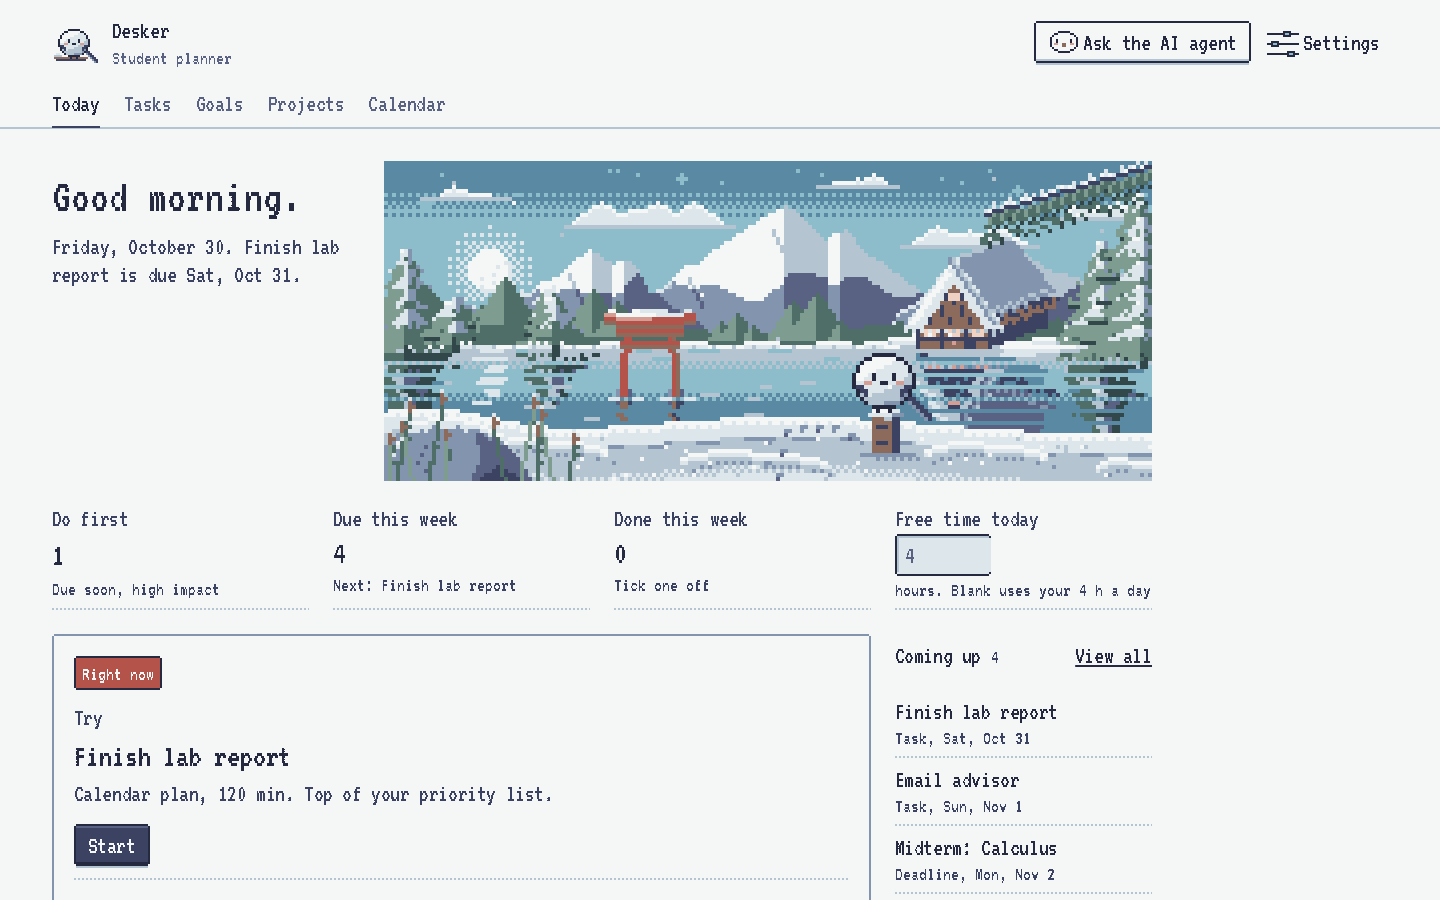
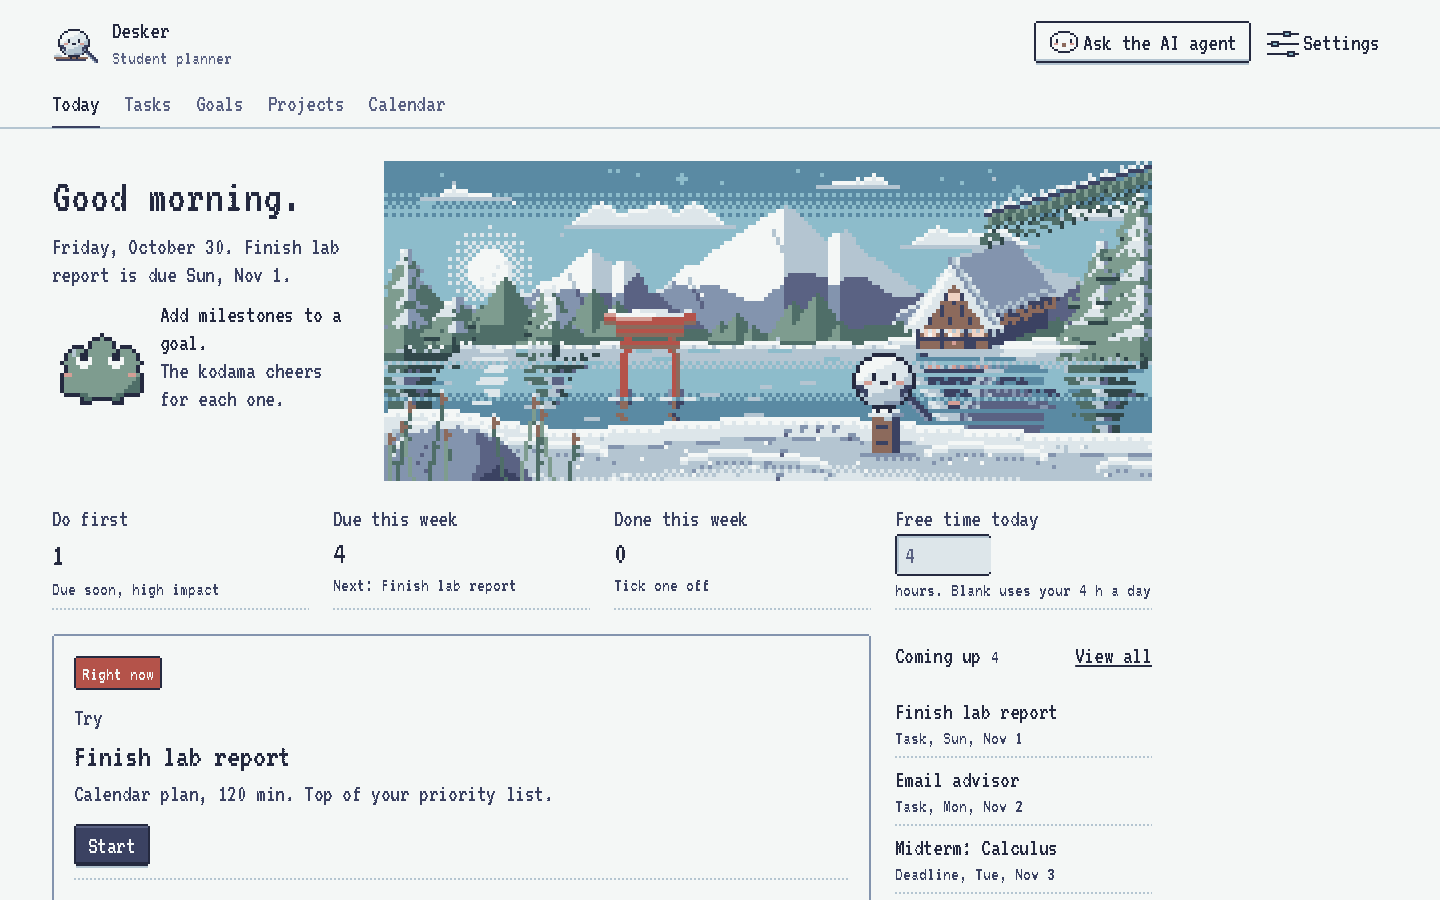
Goal milestones and the kodama: happy when one is reached today, a lucky day after

Changed region(s): [[0.0312, 0.3733, 0.2188, 0.4667], [0.125, 0.3422, 0.2188, 0.3733]]

diff --git a/src/screens/Goals.jsx b/src/screens/Goals.jsx
@@ -2,6 +2,8 @@ import { useState } from 'react'
 import { BLUE, btn, ghost, input, panel, LEVELS } from '../ui.js'
 import Review from '../Review.jsx'
 import { areaTag } from '../guide/questions.js'
+import KodamaCard from '../components/KodamaCard.jsx'
+import { msOf, progress, addMilestone, removeMilestone, toggleMilestone } from '../milestones.js'
 
 function Hobbies({ hobbies, setHobbies }) {
   const [v, setV] = useState('')
@@ -59,20 +61,24 @@ function GuideEntry({ goals, guide, onGuide, setSkipped }) {
   )
 }
 
-export default function Goals({ goals, setGoals, hobbies, setHobbies, tasks, onReview, guide, onGuide, fresh, onMakeTasks, onDismissOffer }) {
+export default function Goals({ goals, setGoals, onMilestone, hobbies, setHobbies, tasks, onReview, guide, onGuide, fresh, onMakeTasks, onDismissOffer }) {
   const [area, setArea] = useState('')
   const areas = [...new Set(goals.map((g) => g.area).filter(Boolean))]
   const shown = area && areas.includes(area) ? goals.filter((g) => g.area === area) : goals
   const blank = { title: '', level: 3, happiness: false }
   const [d, setD] = useState(blank)
+  const [drafts, setDrafts] = useState({}) // new milestone text per goal id
+  const tick = (g, m) => { setGoals(toggleMilestone(goals, g.id, m.id)); if (!m.at) onMilestone?.(g.id, m) }
+  const addMs = (e, g) => { e.preventDefault(); setGoals(addMilestone(goals, g.id, drafts[g.id] || '')); setDrafts({ ...drafts, [g.id]: '' }) }
   const submit = (e) => {
     e.preventDefault()
     if (!d.title.trim()) return
-    setGoals(d.id ? goals.map((g) => (g.id === d.id ? d : g)) : [...goals, { ...d, id: Date.now() }])
+    setGoals(d.id ? goals.map((g) => (g.id === d.id ? { ...d, milestones: g.milestones } : g)) : [...goals, { ...d, id: Date.now() }])
     setD(blank)
   }
   return (
     <>
+      <KodamaCard goals={goals} className="mb-4" />
       <GuideEntry goals={goals} guide={guide} onGuide={onGuide} setSkipped={() => onGuide('skip')} />
       {fresh?.offer && (
         <div role="status" className="mb-4 flex flex-wrap items-center gap-3 bg-pale p-4 text-base">
@@ -108,12 +114,30 @@ export default function Goals({ goals, setGoals, hobbies, setHobbies, tasks, onR
             <ul className="mt-3 space-y-2">
               {!shown.some((g) => g.level === i) && <li className="text-center text-base text-slate-800">No goals yet</li>}
               {shown.filter((g) => g.level === i).map((g) => (
-                <li key={g.id} className={`flex items-center justify-between gap-2 bg-yuki-0 px-4 py-2 ${fresh?.ids.includes(g.id) ? 'ring-2 ring-accent' : ''}`}>
+                <li key={g.id} className={`bg-yuki-0 px-4 py-2 ${fresh?.ids.includes(g.id) ? 'ring-2 ring-accent' : ''}`}>
+                  <div className="flex items-center justify-between gap-2">
                   <span className="min-w-0 break-words">{g.top && <span aria-label="Top 3 goal" className="mr-2 bg-beni px-1 text-xs text-yuki-0">Top 3</span>}{g.title}{g.area && <span className={`ml-2 px-2 text-xs ${areaTag(g.area)}`}>{g.area}</span>}{g.happiness && <span className="ml-2 bg-pale px-2 text-xs">happiness</span>}</span>
                   <span className="flex shrink-0 gap-1">
                     <button className={`${btn} hover:bg-slate-100`} onClick={() => setD(g)}>Edit</button>
                     <button className={`${btn} text-danger hover:bg-slate-100`} onClick={() => setGoals(goals.filter((x) => x.id !== g.id))}>Delete</button>
                   </span>
+                  </div>
+                  <div className="mt-2">
+                    <p className="flex flex-wrap items-center gap-2 text-base text-slate-700">Milestones <span className="flex gap-1" aria-hidden="true">{msOf(g).map((m) => <span key={m.id} className={`px-pip ${m.at ? 'px-pip-on' : ''}`} />)}</span>{msOf(g).length > 0 && `${progress(g).done} of ${progress(g).total}`}</p>
+                    <ul className="mt-1 space-y-1">
+                      {msOf(g).map((m) => (
+                        <li key={m.id} className="flex items-center gap-2">
+                          <input type="checkbox" checked={!!m.at} onChange={() => tick(g, m)} aria-label={`Reached: ${m.title}`} />
+                          <span className={`min-w-0 flex-1 break-words ${m.at ? 'text-slate-700 line-through' : ''}`}>{m.title}</span>
+                          <button className="flex h-8 w-8 shrink-0 items-center justify-center text-slate-700 hover:bg-yuki-1" aria-label={`Remove milestone ${m.title}`} onClick={() => setGoals(removeMilestone(goals, g.id, m.id))}>×</button>
+                        </li>
+                      ))}
+                    </ul>
+                    <form className="mt-1 flex gap-2" onSubmit={(e) => addMs(e, g)}>
+                      <input className={`${input} min-w-0 flex-1`} placeholder="Add a milestone" aria-label={`New milestone for ${g.title}`} value={drafts[g.id] || ''} onChange={(e) => setDrafts({ ...drafts, [g.id]: e.target.value })} />
+                      <button className={`${btn} ${ghost}`}>Add</button>
+                    </form>
+                  </div>
                 </li>
               ))}
             </ul>

diff --git a/src/App.jsx b/src/App.jsx
@@ -21,6 +21,7 @@ import { addTasks } from './tasks.js'
 import { BLUE, btn, ghost } from './ui.js'
 import { Banner } from './art.jsx'
 import { Avatar, Hanko } from './px.jsx'
+import { toggleMilestone } from './milestones.js'
 
 // One URL per section. The old /do-now lives on Today now.
 const PATHS = { Today: '/today', Tasks: '/tasks', Goals: '/goals', Projects: '/projects', Calendar: '/calendar' }
@@ -91,6 +92,8 @@ export default function App() {
   const setPick = (pick) => setData((d) => ({ ...d, pick }))
   const setHobbies = (hobbies) => setData((d) => ({ ...d, hobbies }))
   const setGoals = (goals) => setData((d) => ({ ...d, goals }))
+  const milestoneReached = (goalId, m) => setToast({ stamp: true, text: `Milestone reached: ${m.title}. The kodama is happy, tomorrow is a lucky day.`,
+    undo: () => { setData((d) => ({ ...d, goals: toggleMilestone(d.goals, goalId, m.id) })); setToast(null) } })
   // mode: 'resume' keeps the draft, 'fresh' wipes it; otherwise start (or retake with earlier answers kept)
   const openGuide = (mode) => {
     if (mode === 'skip') return setData((d) => ({ ...d, guide: { ...d.guide, skipped: true } }))
@@ -173,7 +176,7 @@ export default function App() {
             {tab === 'Today' && <Today data={data} setData={setData} tasks={tasks} goals={goals} deadlines={deadlines} focus={focus} pick={pick} setFocus={setFocus} setPick={setPick} setTasks={setTasks}
               goTab={setTab} openTimer={() => setFocusOpen(true)} deleteTask={deleteTask} openAgent={() => setAgentOpen(true)} onReplan={openReplan} onReview={openReview} />}
             {tab === 'Tasks' && <Tasks goals={goals} tasks={tasks} setTasks={setTasks} goTab={setTab} setFocus={setFocus} deleteTask={deleteTask} projects={projects} deadlines={deadlines} setDeadlines={setDeadlines} />}
-            {tab === 'Goals' && <Goals goals={goals} setGoals={setGoals} hobbies={hobbies} setHobbies={setHobbies} tasks={tasks} onReview={openReview} guide={data.guide} onGuide={openGuide} fresh={fresh} onMakeTasks={makeTasks} onDismissOffer={() => setFresh(null)} />}
+            {tab === 'Goals' && <Goals goals={goals} setGoals={setGoals} onMilestone={milestoneReached} hobbies={hobbies} setHobbies={setHobbies} tasks={tasks} onReview={openReview} guide={data.guide} onGuide={openGuide} fresh={fresh} onMakeTasks={makeTasks} onDismissOffer={() => setFresh(null)} />}
             {tab === 'Projects' && <Projects goals={goals} projects={projects} setProjects={setProjects} tasks={tasks} setTasks={setTasks} deadlines={deadlines} />}
             {tab === 'Calendar' && <Calendar goals={goals} tasks={tasks} setTasks={setTasks} freeHours={data.freeHours} freeToday={freeTodayOf(data)} deadlines={deadlines} setDeadlines={setDeadlines} data={data} setData={setData} onStart={startTask} onReplan={openReplan} />}
           </div>

diff --git a/src/index.css b/src/index.css
@@ -117,6 +117,17 @@ details > summary { cursor: pointer; }
 .px-avatar-scene { animation-name: blink-scene; }
 @keyframes blink-scene { 0%, 94% { background-position: 0 0; } 95%, 100% { background-position: calc(-24 * var(--px-scene)) 0; } }
 
+/* Kodama: 24x24, 6 frames (idle, blink, happy a/b, lucky a/b) at the scene scale. Happy hops, lucky sparkles, idle just blinks. */
+.px-kodama { width: calc(24 * var(--px-scene)); height: calc(24 * var(--px-scene)); flex: none; background: url(/pixel/kodama.sheet.png) 0 0 / calc(144 * var(--px-scene)) calc(24 * var(--px-scene)) no-repeat; image-rendering: pixelated; }
+.px-kodama[data-mood='idle'] { animation: k-idle 5s steps(1) infinite; }
+.px-kodama[data-mood='happy'] { background-position: calc(-48 * var(--px-scene)) 0; animation: k-happy .8s steps(1) infinite; }
+.px-kodama[data-mood='lucky'] { background-position: calc(-96 * var(--px-scene)) 0; animation: k-lucky 1.6s steps(1) infinite; }
+@keyframes k-idle { 0%, 93% { background-position: 0 0; } 94%, 100% { background-position: calc(-24 * var(--px-scene)) 0; } }
+@keyframes k-happy { 0%, 49% { background-position: calc(-48 * var(--px-scene)) 0; } 50%, 100% { background-position: calc(-72 * var(--px-scene)) 0; } }
+@keyframes k-lucky { 0%, 49% { background-position: calc(-96 * var(--px-scene)) 0; } 50%, 100% { background-position: calc(-120 * var(--px-scene)) 0; } }
+.px-pip { display: inline-block; width: calc(4 * var(--px)); height: calc(4 * var(--px)); background: var(--color-yuki-2); }
+.px-pip-on { background: var(--color-matsu-1); }
+
 /* Hanko stamp: 16x16, 3 frames, one pass. The only celebratory motion. */
 .px-hanko { width: calc(16 * var(--px)); height: calc(16 * var(--px)); background: url(/pixel/hanko.sheet.png) 0 0 / calc(48 * var(--px)) calc(16 * var(--px)) no-repeat; image-rendering: pixelated; animation: stamp 450ms steps(1) forwards; }
 @keyframes stamp { 0% { background-position: 0 0; } 34% { background-position: calc(-16 * var(--px)) 0; } 67%, 100% { background-position: calc(-32 * var(--px)) 0; } }
@@ -150,7 +161,8 @@ details > summary { cursor: pointer; }
 .hour-lines { background-image: url(/pixel/divider.png); background-size: calc(4 * var(--px)) var(--px); background-repeat: repeat-x; image-rendering: pixelated; }
 
 @media (prefers-reduced-motion: reduce) {
-  .px-avatar, .px-avatar-scene, .dot, .cheer { animation: none; }
+  .px-avatar, .px-avatar-scene, .px-kodama, .dot, .cheer { animation: none; }
+  .px-kodama[data-mood='idle'] { background-position: 0 0; }
   .px-hanko { animation: none; background-position: calc(-32 * var(--px)) 0; }
   .px-btn:active:not(:disabled) { transform: none; }
 }

diff --git a/src/screens/Today.jsx b/src/screens/Today.jsx
@@ -4,6 +4,7 @@ import { addTasks, doneStats, isMissed } from '../tasks.js'
 import { logEnergy, energyProfile, ranges } from '../energy.js'
 import { METHODS } from '../methods.js'
 import { Scene } from '../px.jsx'
+import KodamaCard from '../components/KodamaCard.jsx'
 import Review from '../Review.jsx'
 import Row from '../components/Row.jsx'
 import { BLUE, btn, ghost, input, panel, LEVELS } from '../ui.js'
@@ -114,6 +115,7 @@ export default function Today({ data, setData, tasks, goals, deadlines, focus, p
         <div className="order-2 min-w-0 flex-1 lg:order-1 lg:pt-2">
           <h1 className="text-4xl leading-8 md:text-5xl md:leading-[56px]">{greeting()}.</h1>
           <p className="mt-2 text-slate-700">{new Date().toLocaleDateString([], { weekday: 'long', day: 'numeric', month: 'long' })}. {finding}</p>
+          <KodamaCard goals={goals} className="mt-3 hidden sm:flex" />
           {missed.length > 0 && <button className={`${btn} ${BLUE} mt-3`} onClick={onReplan}>Replan my week</button>}
         </div>
         <div className="order-1 lg:order-2"><Scene /></div>
@@ -219,6 +221,7 @@ export default function Today({ data, setData, tasks, goals, deadlines, focus, p
           </details>
         </section>
 
+        <KodamaCard goals={goals} className="sm:hidden lg:col-span-12" />
         <section className="lg:col-span-3" aria-label="Coming up">
           <div className="flex items-center justify-between">
             <h2>Coming up <span className="text-xs text-slate-700">{soon.length}</span></h2>

diff --git a/src/milestones.js b/src/milestones.js
@@ -1,0 +1,21 @@
+// Goal milestones and the kodama's mood. A milestone is { id, title, at? } on a goal; `at` is the local day it was reached.
+// Reached today: the kodama is happy. Reached yesterday: today is a lucky day. Neither: the kodama stays as it is.
+export const dayStr = (d = new Date()) => d.toLocaleDateString('sv')
+export const prevDay = (day) => { const d = new Date(`${day}T12:00:00`); d.setDate(d.getDate() - 1); return dayStr(d) }
+export const msOf = (g) => g.milestones || []
+const reached = (goals, day) => goals.some((g) => msOf(g).some((m) => m.at === day))
+
+export function kodamaMood(goals, today = dayStr()) {
+  const happy = reached(goals, today), lucky = reached(goals, prevDay(today))
+  return { mood: happy ? 'happy' : lucky ? 'lucky' : 'idle', happy, lucky }
+}
+export const progress = (g) => ({ done: msOf(g).filter((m) => m.at).length, total: msOf(g).length })
+
+const edit = (goals, id, fn) => goals.map((g) => (g.id === id ? { ...g, milestones: fn(msOf(g)) } : g))
+export const addMilestone = (goals, id, title, mid = Date.now()) => (title.trim() ? edit(goals, id, (ms) => [...ms, { id: mid, title: title.trim().slice(0, 200) }]) : goals)
+export const removeMilestone = (goals, id, mid) => edit(goals, id, (ms) => ms.filter((m) => m.id !== mid))
+export const toggleMilestone = (goals, id, mid, today = dayStr()) => edit(goals, id, (ms) => ms.map((m) => {
+  if (m.id !== mid) return m
+  if (m.at) { const { at, ...rest } = m; return rest }
+  return { ...m, at: today }
+}))

diff --git a/src/components/KodamaCard.jsx b/src/components/KodamaCard.jsx
@@ -1,0 +1,21 @@
+import { Kodama } from '../px.jsx'
+import { kodamaMood, msOf } from '../milestones.js'
+
+// Today's kodama: happy after a milestone, a lucky day after that, otherwise unchanged.
+export default function KodamaCard({ goals, className = '' }) {
+  const { mood, happy, lucky } = kodamaMood(goals)
+  const any = goals.some((g) => msOf(g).length)
+  const [title, sub] = happy ? ['Milestone reached.', lucky ? 'Tomorrow is lucky again.' : 'Tomorrow is a lucky day.']
+    : lucky ? ['A lucky day.', "Yesterday's milestone brought luck."]
+    : any ? ['No milestone yet today.', 'Reach one and tomorrow is lucky.']
+    : ['Add milestones to a goal.', 'The kodama cheers for each one.']
+  return (
+    <div className={`flex items-center gap-3 ${className}`} role="status">
+      <Kodama mood={mood} />
+      <div className="min-w-0">
+        <p className="flex flex-wrap items-center gap-2">{title}{happy && lucky && <span className="px-tab px-tab-matsu">Lucky day</span>}</p>
+        <p className="text-base text-slate-700">{sub}</p>
+      </div>
+    </div>
+  )
+}

diff --git a/src/px.jsx b/src/px.jsx
@@ -8,6 +8,9 @@ export const Avatar = ({ scene, label = '', style }) => (
     className={`px-avatar ${scene ? 'px-avatar-scene' : ''}`} style={{ backgroundImage: `url(/pixel/${scene ? 'av-scene' : 'av-main'}.sheet.png)`, ...style }} />
 )
 
+// The kodama: a tree spirit that follows the goals' milestones (see milestones.js).
+export const Kodama = ({ mood = 'idle' }) => <span className="px-kodama" data-mood={mood} aria-hidden="true" />
+
 // Completion seal: three frames, one pass.
 export const Hanko = () => <span className="px-hanko" aria-hidden="true" />
 

diff --git a/art/authoring/gen_kodama.py b/art/authoring/gen_kodama.py
@@ -1,0 +1,60 @@
+#!/usr/bin/env python3
+"""Kodama (tree spirit): a five-lobed cloud head, big up-looking eyes, blush, tiny body and feet. 24x24, yuki16 only.
+Frames: idle, blink, happy-a, happy-b (a hop), lucky-a, lucky-b (a sprout and sparkles). Light is upper-left."""
+import pathlib
+ROOT = pathlib.Path(__file__).resolve().parent.parent.parent
+N = 24
+LOBES = [(6.2, 8, 4.3), (12, 5, 4.1), (17.8, 8, 4.3), (4.6, 12.8, 3.6), (19.4, 12.8, 3.6), (12, 11.2, 6.2)]
+
+def frame(mood, oy, spark=0, sprout=False):
+    c = {}
+    def put(x, y, ch):
+        if 0 <= x < N and 0 <= y < N: c[(x, y)] = ch
+    head = {(x, y) for y in range(N) for x in range(N) if any((x - cx) ** 2 + (y - oy - cy) ** 2 <= r * r for cx, cy, r in LOBES)}
+    hb = max(y for _, y in head)
+    for x0 in (7, 15):                                                             # legs: two stubby feet under the head, apart
+        for x in range(x0, x0 + 3):
+            for y in range(hb - 1, hb + (3 if mood != 'happy-b' else 2)): put(x, y, 'g')
+    for p in head: c[p] = 'G'
+    for (x, y) in head:                                                            # form: a small lit crescent upper-left, shade lower-right
+        if (x, y - oy) in ((6, 4), (7, 3), (8, 3), (5, 5), (9, 2), (5, 6)): c[(x, y)] = 'h'
+        elif (x - 12) + (y - oy - 9) > 11 and not (x, y - oy) in ((20, 8),): c[(x, y)] = 'g'
+    edge = [(x, y) for (x, y) in c if any((x + dx, y + dy) not in c for dx, dy in ((1, 0), (-1, 0), (0, 1), (0, -1)))]
+    for p in edge: c[p] = 'K'
+    # face
+    by = oy + 9
+    for x in (3, 4): put(x, by + 2, 'P')                                           # blush
+    for x in (19, 20): put(x, by + 2, 'P')
+    if mood in ('idle', 'lucky'):
+        for ex in (6, 14):                                                         # big eyes looking up: pupil on top, white below
+            for dy, row in enumerate(('.KK.', 'WKKW', 'WWWW', '.WW.')):
+                for dx, ch in enumerate(row):
+                    if ch != '.': put(ex + dx, by - 3 + dy, ch)
+    elif mood == 'blink':
+        for ex in (6, 14):
+            for dx in range(4): put(ex + dx, by - 1, 'K')
+    else:                                                                          # happy: closed smiling eyes, a small smile
+        for ex in (6, 14):
+            put(ex, by - 1, 'K'); put(ex + 1, by - 2, 'K'); put(ex + 2, by - 2, 'K'); put(ex + 3, by - 1, 'K')
+        put(11, by + 1, 'K'); put(12, by + 2, 'K'); put(13, by + 1, 'K')
+    if sprout:                                                                     # a leaf growing from the crown
+        top = min(y for _, y in head)
+        put(12, top - 1, 'g'); put(12, top - 2, 'g'); put(13, top - 3, 'G'); put(14, top - 3, 'G'); put(15, top - 2, 'G'); put(13, top - 2, 'G'); put(14, top - 2, 'g')
+        put(12, top - 3, 'K'); put(13, top - 4, 'K'); put(14, top - 4, 'K'); put(15, top - 3, 'K'); put(16, top - 2, 'K'); put(15, top - 1, 'K'); put(14, top - 1, 'K'); put(13, top - 1, 'K'); put(11, top - 2, 'K'); put(11, top - 1, 'K') if False else None
+    sp = ((3, 2), (20, 6)) if spark == 0 else ((20, 2), (3, 7))                    # sparkles: a plus and a dot, swapping places
+    if mood == 'lucky':
+        (px, py), (qx, qy) = sp
+        for dx, dy in ((0, 0), (1, 0), (-1, 0), (0, 1), (0, -1)): put(px + dx, py + dy, 'P')
+        put(qx, qy, 'S')
+    return [''.join(c.get((x, y), '.') for x in range(N)) for y in range(N)]
+
+FRAMES = [('idle', 'idle', 5, 0, False), ('blink', 'blink', 5, 0, False), ('happy-a', 'happy', 5, 0, False), ('happy-b', 'happy-b', 3, 0, False),
+          ('lucky-a', 'lucky', 5, 0, True), ('lucky-b', 'lucky', 5, 1, True)]
+def render():
+    head = ['# kodama: tree spirit mascot. Generated by art/authoring/gen_kodama.py. Light from upper-left.', 'size 24 24', 'palette yuki16', '. transparent',
+            'K yoru-2', 'G matsu-0', 'g matsu-1', 'h yuki-2', 'W yuki-0', 'P hada-1', 'S yuki-3']
+    body = []
+    for name, mood, oy, spark, sprout in FRAMES:
+        body += [f'frame {name}'] + frame('happy' if mood == 'happy-b' else mood, oy, spark, sprout)
+    (ROOT / 'art/sprites/kodama.sprite.txt').write_text('\n'.join(head + body) + '\n')
+render(); print('wrote kodama')

diff --git a/design/DESIGN.md b/design/DESIGN.md
@@ -153,3 +153,7 @@ Your answers: 1 ok (quadrants by position), 2 ok (`avatar` in `SETTINGS`), 3 "do
 ### Scene redo (as built)
 
 The banner is now drawn in code, plane by plane, in role colours (`art/scene_build.py`); night is the master and morning and dusk are palette remaps. Added: a moon with a graduated dither halo, a lake with mirrored reflections and a moon path, a torii in the shallows, a gassho-zukuri farmhouse with a stepped light pool, irregular snow-laden pines, a foreground rock with reeds and a pine bough. The avatar is `av-scene` (branchless) perched on a dock post at the right third line. Motion: two snow layers (behind and in front of the avatar), the blink, and a 2 fps slide of three dashes on the moon's path. The old drifting clouds and lake sparkles are gone. Everything stops under `prefers-reduced-motion`.
+
+### Milestones and the kodama (as built)
+
+Goals carry `milestones: [{ id, title, at? }]` (`at` is the local day it was reached; stored in the goal's `extra` jsonb, so no migration). `src/milestones.js` holds the rules: a milestone reached today makes the kodama happy (hops); one reached yesterday makes today a lucky day (sparkles and a leaf sprout, plus a "Lucky day" tag when both apply); otherwise it stays as it is (idle blink, no sad state). The kodama is `art/authoring/gen_kodama.py` -> `kodama.sheet.png`, six frames at the scene scale, yuki16 only (its green is matsu-0, since the palette has no brighter green). It shows on Today (header from 640px up, below the Right now panel on phones, so the Start button stays above the tab bar) and on Goals. "Lucky day" is a status and a message for now; it changes nothing else.
